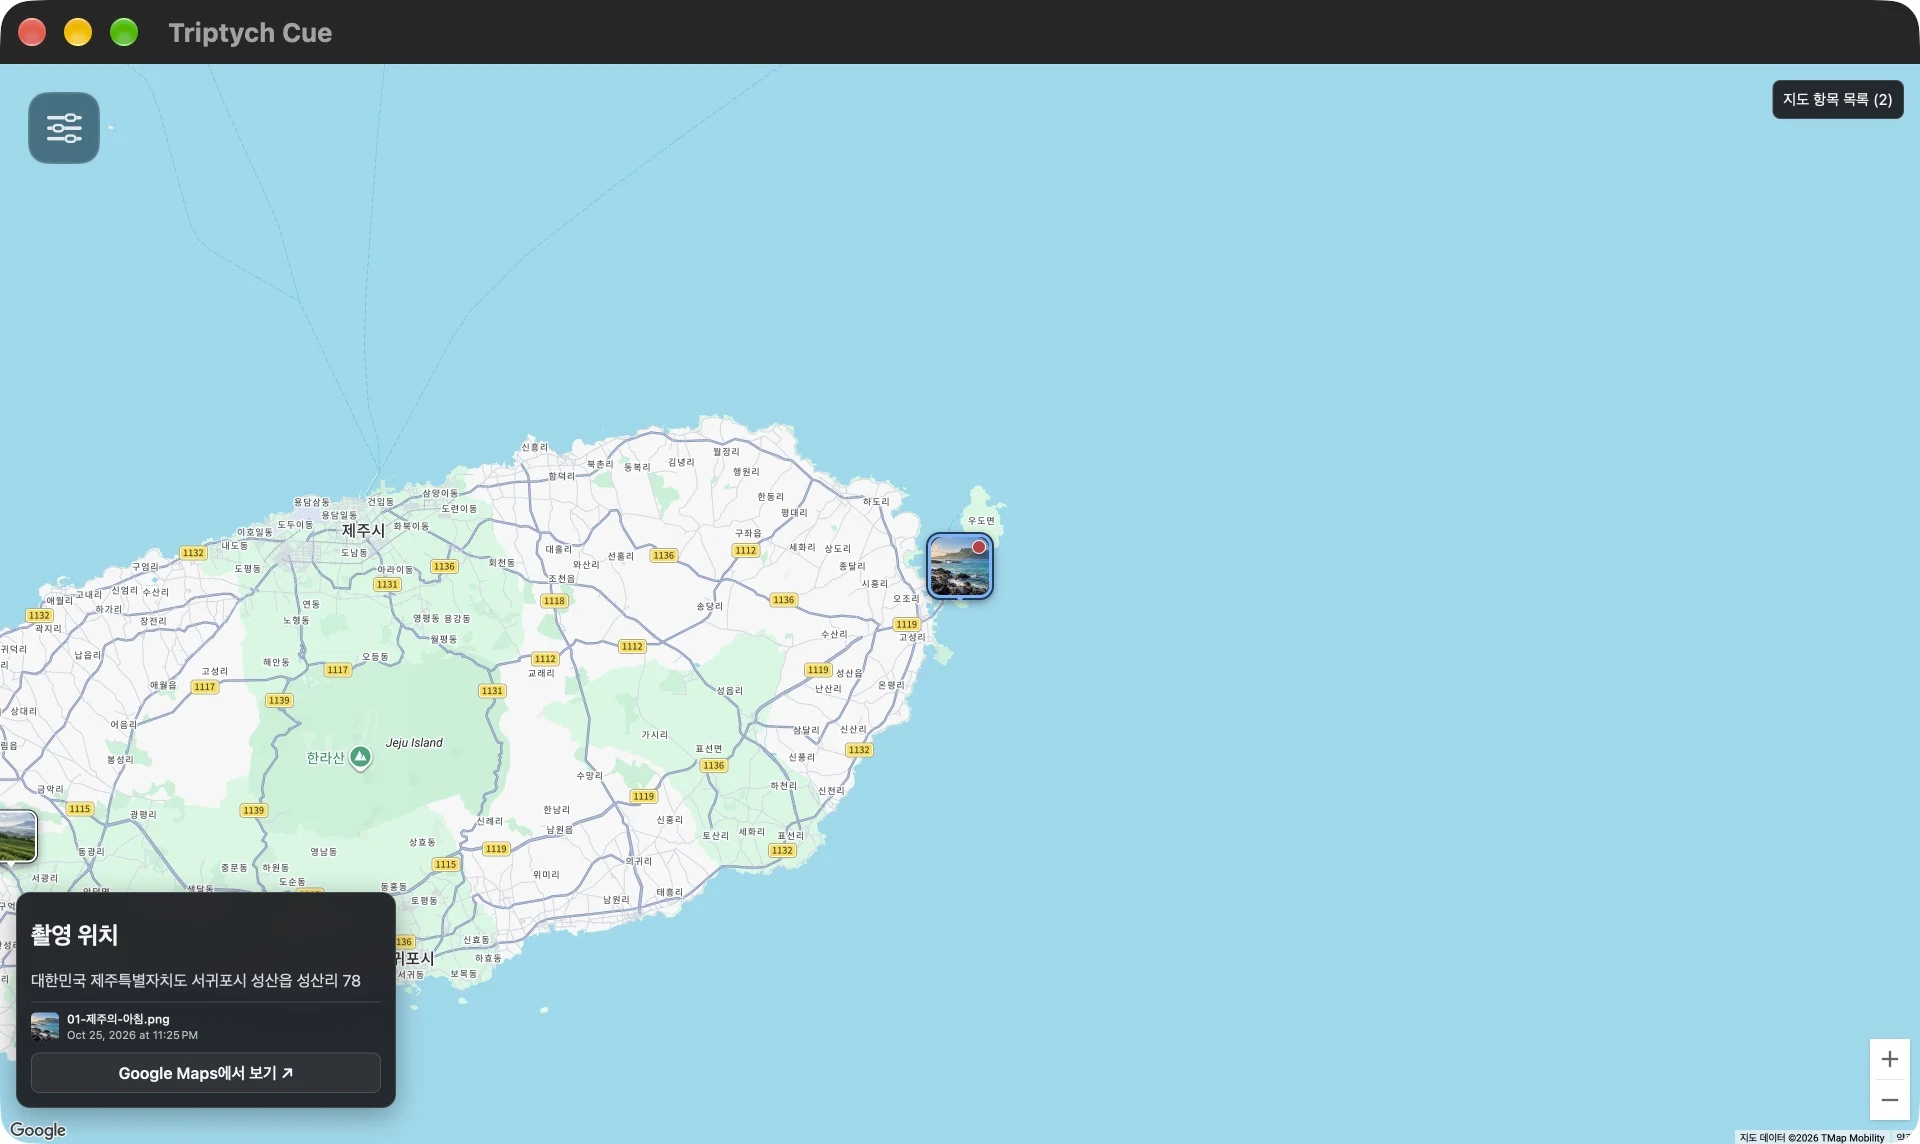
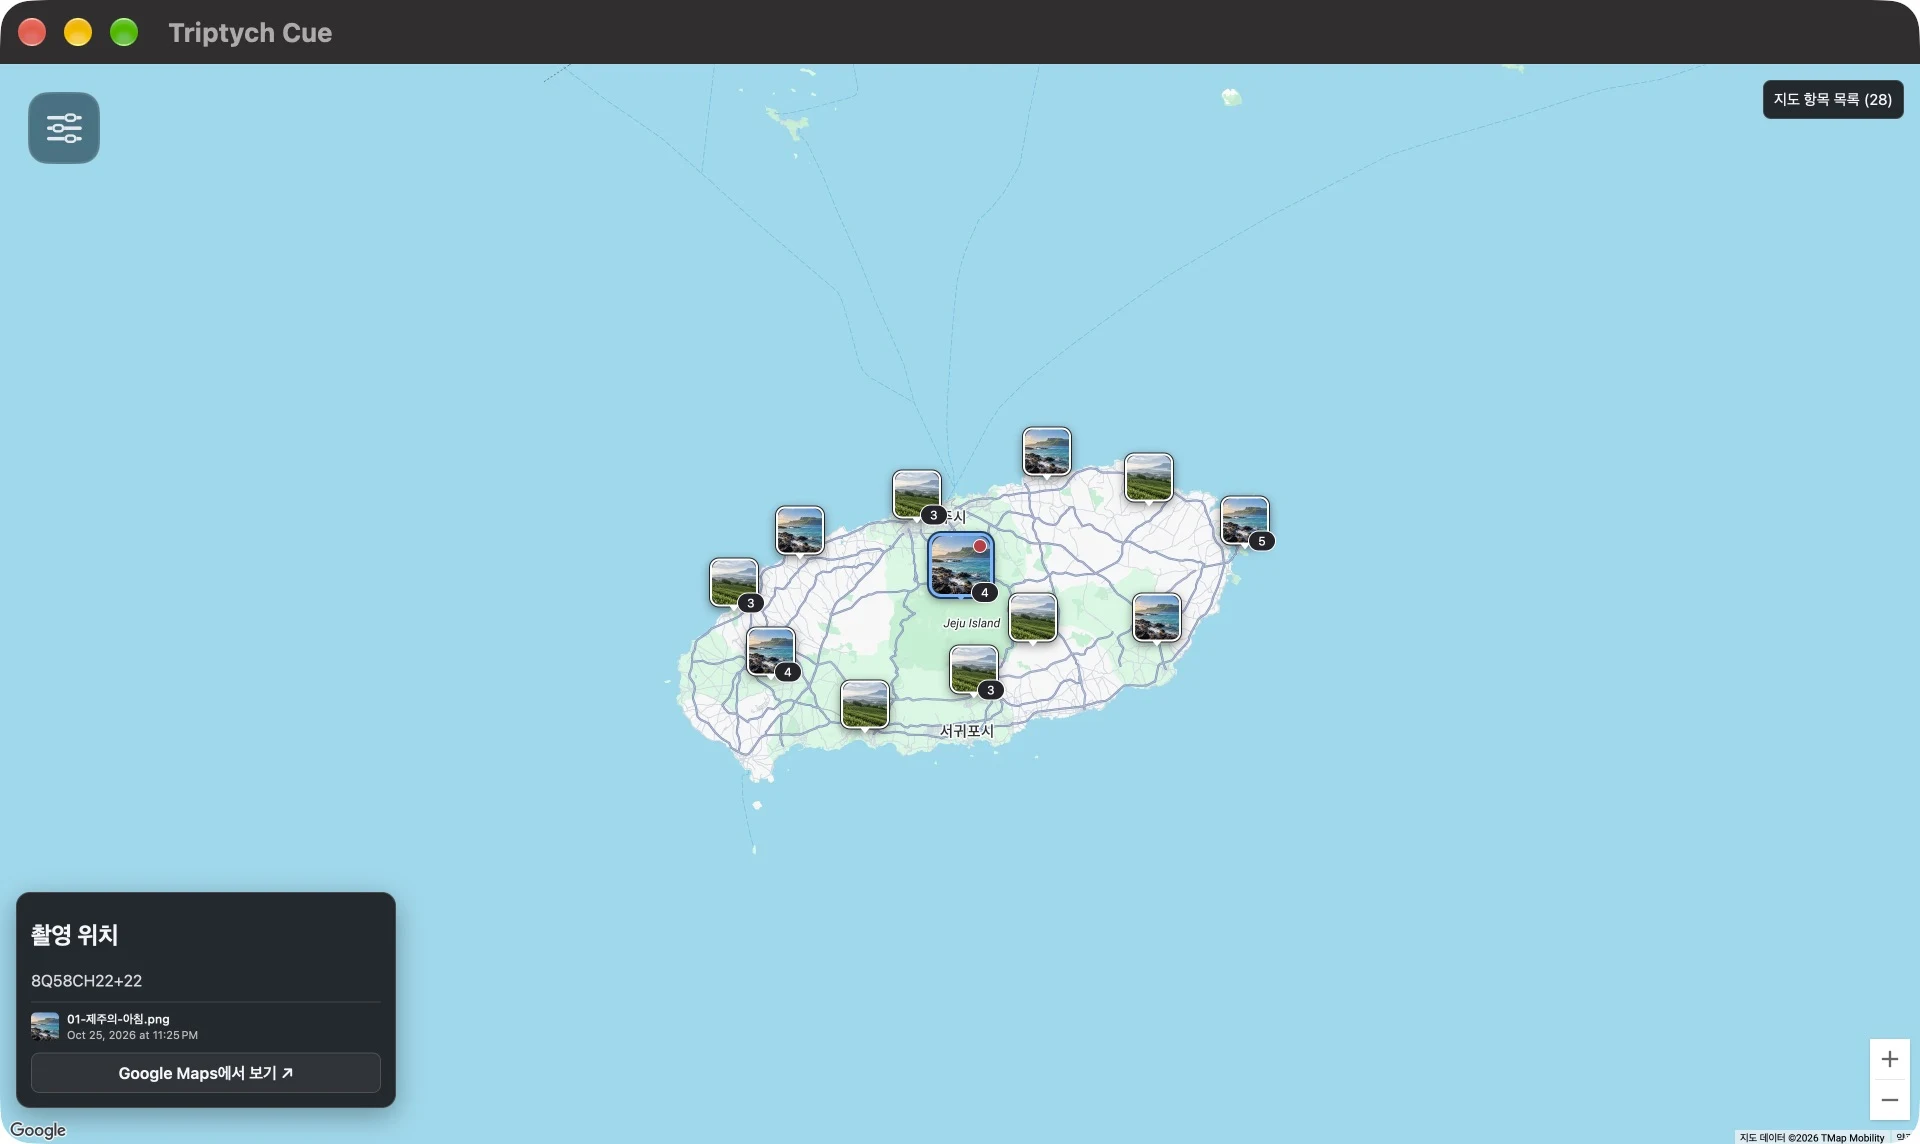
feat(site): showcase map clusters and each presentation tool
OPS-T56–59: 28 demo media across 12 locations; actual summary, annotation and user-drawn screenshots. Desktop and 390px mobile checks; full asset/anchor/secret scan passed.

diff --git a/styles.css b/styles.css
@@ -82,8 +82,13 @@ h2{font-size:clamp(32px,3.4vw,49px);font-weight:620;line-height:1.32;letter-spac
 .feature-copy h3{font-size:clamp(25px,2.4vw,34px);line-height:1.45;letter-spacing:-.045em;font-weight:600}
 .feature-copy>p{font-size:14px;line-height:1.95;color:var(--muted);margin-top:23px;max-width:350px}
 .feature-copy .fine-print{font-size:10px;margin-top:24px;line-height:1.7}
-.feature-map img,.feature-notes img,.rolling-shot img{filter:drop-shadow(0 16px 20px #24251e17)}
-.feature-notes{display:grid;grid-template-columns:1.4fr .8fr;gap:90px;align-items:center;border-top:1px solid var(--line);margin-top:92px;padding-top:92px}
+.feature-map img,.feature-expression img,.rolling-shot img{filter:drop-shadow(0 16px 20px #24251e17)}
+.feature-expression{display:grid;grid-template-columns:1.4fr .8fr;gap:90px;align-items:center;border-top:1px solid var(--line);margin-top:92px;padding-top:92px}
+.feature-expression>*{min-width:0}
+.feature-expression img{aspect-ratio:1920 / 1144;object-fit:contain}
+.feature-expression--reverse{grid-template-columns:.8fr 1.4fr}
+.feature-expression--reverse figure{grid-column:2;grid-row:1}
+.feature-expression--reverse .feature-copy{grid-column:1;grid-row:1}
 .feature-tags{display:flex;flex-wrap:wrap;gap:7px;margin-top:26px}
 .feature-tags span{font-size:10px;border:1px solid var(--line);border-radius:3px;padding:5px 9px;color:var(--muted)}
 .workflow{background:#eaece5}
@@ -113,7 +118,7 @@ kbd{display:inline-flex;align-items:center;justify-content:center;font:500 12px 
 .site-footer p{font-size:11px;color:var(--muted)}
 .footer-meta{color:var(--muted);font-size:9px}
 @media(min-width:1600px){.hero-copy{padding-bottom:70px}.hero-gallery{padding-bottom:135px}.hero-small-shot{bottom:35px}}
-@media(max-width:1100px){.wrap{width:calc(100% - 72px)}.hero-copy{grid-template-columns:1fr .45fr;gap:24px}.hero-aside>p{font-size:14px}.text-link{font-size:11px;gap:10px}.section-space{padding-block:90px}.intro{padding-block:90px;grid-template-columns:.7fr 2fr .3fr;gap:24px}.feature-map{gap:38px;grid-template-columns:1fr 1.35fr}.feature-notes{gap:46px}.mode-caption{grid-template-columns:1fr 1.5fr}.mode-caption .caption-index{display:none}.keyboard{gap:60px}.site-header nav{margin-right:16px;gap:25px}.hero-small-shot figcaption span:last-child{font-size:10px}}
-@media(max-width:760px){.wrap{width:calc(100% - 40px)}.site-header{min-height:88px;flex-wrap:wrap;gap:12px;padding-block:21px}.brand{font-size:23px}.brand-mark{width:25px;height:24px}.site-header nav{gap:19px;margin:0;font-size:12px}.header-cta{display:none}.hero{padding-top:32px}.hero-meta .eyebrow{font-size:8px;letter-spacing:.11em}.version{font-size:9px}.version span{margin-inline:5px}.hero-copy{grid-template-columns:1fr;padding-block:30px 38px;gap:26px}h1{font-size:clamp(43px,9.1vw,68px);letter-spacing:-.065em}.hero-aside{display:flex;align-items:end;justify-content:space-between;gap:20px}.hero-aside>p{font-size:13px;line-height:1.8}.text-link{margin:0;font-size:10px;max-width:140px;line-height:1.7}.hero-gallery{padding-bottom:96px}.hero-main-shot{width:94%}.hero-main-shot figcaption{padding-left:44%;font-size:9px}.hero-main-shot figcaption .caption-index{display:none}.hero-small-shot{width:46%;bottom:22px}.hero-small-shot figcaption{margin-top:10px;font-size:9px}.hero-small-shot figcaption span:last-child{font-size:9px}.hero-side-note{font-size:7px;letter-spacing:.12em}.hero-foot{font-size:9px;padding-block:17px;gap:16px}.hero-foot .blue{margin-left:9px}.intro{grid-template-columns:1fr;padding-block:68px;gap:26px}.intro-symbol{display:none}.section-label{padding:0}.intro h2{font-size:29px}.body-copy{font-size:13px;margin-top:22px}.section-space{padding-block:70px}.section-heading{align-items:start;gap:25px;margin-bottom:34px;flex-direction:column}h2{font-size:33px}.section-heading .eyebrow,.keyboard .eyebrow{font-size:9px;margin-bottom:19px}.section-description{font-size:13px}.showcase-toolbar{gap:12px;margin-bottom:18px}.showcase-toolbar .small-label{font-size:8px;letter-spacing:.09em}.mode-tabs{gap:2px;padding:4px}.mode-tabs button{padding:9px 14px;font-size:12px}.mode-number{display:none}.showcase-image{padding:10px 5px 16px;aspect-ratio:1.65}.mode-caption{grid-template-columns:1fr;gap:9px;padding-block:22px}.mode-caption h3{font-size:19px}.mode-caption p{font-size:12px}.image-note{font-size:10px;line-height:1.8}.editorial-number{display:none}.feature-map,.feature-notes{grid-template-columns:1fr;gap:30px;padding-top:14px}.feature-copy h3{font-size:27px}.feature-copy>p{max-width:100%;font-size:13px;margin-top:18px}.feature-copy .feature-index{margin-bottom:17px}.feature-copy .fine-print{font-size:10px;margin-top:16px}.feature-notes{margin-top:54px;padding-top:46px}.feature-notes .feature-copy{grid-row:1}.feature-tags{margin-top:18px}figcaption{font-size:9px;gap:12px;margin-top:12px}.caption-index{font-size:8px}.rolling-shot{width:100%}.workflow-steps{gap:22px;margin-top:36px}.workflow-steps h3{font-size:16px;margin-top:12px}.workflow-steps p{font-size:11px;margin-top:9px}.keyboard{grid-template-columns:1fr;gap:36px}.shortcut-list>div{padding-block:14px;min-height:65px}.closing{padding-block:65px}.closing .eyebrow{font-size:9px}.closing h2{font-size:clamp(37px,8vw,56px);margin-top:25px}.button{margin-top:28px}.release-note{font-size:10px}.site-footer{flex-wrap:wrap;min-height:130px;gap:18px}.site-footer p{font-size:10px}.footer-meta{width:100%;font-size:8px}}
+@media(max-width:1100px){.wrap{width:calc(100% - 72px)}.hero-copy{grid-template-columns:1fr .45fr;gap:24px}.hero-aside>p{font-size:14px}.text-link{font-size:11px;gap:10px}.section-space{padding-block:90px}.intro{padding-block:90px;grid-template-columns:.7fr 2fr .3fr;gap:24px}.feature-map{gap:38px;grid-template-columns:1fr 1.35fr}.feature-expression{gap:46px}.mode-caption{grid-template-columns:1fr 1.5fr}.mode-caption .caption-index{display:none}.keyboard{gap:60px}.site-header nav{margin-right:16px;gap:25px}.hero-small-shot figcaption span:last-child{font-size:10px}}
+@media(max-width:760px){.wrap{width:calc(100% - 40px)}.site-header{min-height:88px;flex-wrap:wrap;gap:12px;padding-block:21px}.brand{font-size:23px}.brand-mark{width:25px;height:24px}.site-header nav{gap:19px;margin:0;font-size:12px}.header-cta{display:none}.hero{padding-top:32px}.hero-meta .eyebrow{font-size:8px;letter-spacing:.11em}.version{font-size:9px}.version span{margin-inline:5px}.hero-copy{grid-template-columns:1fr;padding-block:30px 38px;gap:26px}h1{font-size:clamp(43px,9.1vw,68px);letter-spacing:-.065em}.hero-aside{display:flex;align-items:end;justify-content:space-between;gap:20px}.hero-aside>p{font-size:13px;line-height:1.8}.text-link{margin:0;font-size:10px;max-width:140px;line-height:1.7}.hero-gallery{padding-bottom:96px}.hero-main-shot{width:94%}.hero-main-shot figcaption{padding-left:44%;font-size:9px}.hero-main-shot figcaption .caption-index{display:none}.hero-small-shot{width:46%;bottom:22px}.hero-small-shot figcaption{margin-top:10px;font-size:9px}.hero-small-shot figcaption span:last-child{font-size:9px}.hero-side-note{font-size:7px;letter-spacing:.12em}.hero-foot{font-size:9px;padding-block:17px;gap:16px}.hero-foot .blue{margin-left:9px}.intro{grid-template-columns:1fr;padding-block:68px;gap:26px}.intro-symbol{display:none}.section-label{padding:0}.intro h2{font-size:29px}.body-copy{font-size:13px;margin-top:22px}.section-space{padding-block:70px}.section-heading{align-items:start;gap:25px;margin-bottom:34px;flex-direction:column}h2{font-size:33px}.section-heading .eyebrow,.keyboard .eyebrow{font-size:9px;margin-bottom:19px}.section-description{font-size:13px}.showcase-toolbar{gap:12px;margin-bottom:18px}.showcase-toolbar .small-label{font-size:8px;letter-spacing:.09em}.mode-tabs{gap:2px;padding:4px}.mode-tabs button{padding:9px 14px;font-size:12px}.mode-number{display:none}.showcase-image{padding:10px 5px 16px;aspect-ratio:1.65}.mode-caption{grid-template-columns:1fr;gap:9px;padding-block:22px}.mode-caption h3{font-size:19px}.mode-caption p{font-size:12px}.image-note{font-size:10px;line-height:1.8}.editorial-number{display:none}.feature-map,.feature-expression{grid-template-columns:1fr;gap:30px;padding-top:14px}.feature-copy h3{font-size:27px}.feature-copy>p{max-width:100%;font-size:13px;margin-top:18px}.feature-copy .feature-index{margin-bottom:17px}.feature-copy .fine-print{font-size:10px;margin-top:16px}.feature-expression{margin-top:54px;padding-top:46px}.feature-expression .feature-copy{grid-row:1}.feature-expression figure{grid-column:1;grid-row:2}.feature-expression .feature-copy{grid-column:1}.feature-tags{margin-top:18px}figcaption{font-size:9px;gap:12px;margin-top:12px}.caption-index{font-size:8px}.rolling-shot{width:100%}.workflow-steps{gap:22px;margin-top:36px}.workflow-steps h3{font-size:16px;margin-top:12px}.workflow-steps p{font-size:11px;margin-top:9px}.keyboard{grid-template-columns:1fr;gap:36px}.shortcut-list>div{padding-block:14px;min-height:65px}.closing{padding-block:65px}.closing .eyebrow{font-size:9px}.closing h2{font-size:clamp(37px,8vw,56px);margin-top:25px}.button{margin-top:28px}.release-note{font-size:10px}.site-footer{flex-wrap:wrap;min-height:130px;gap:18px}.site-footer p{font-size:10px}.footer-meta{width:100%;font-size:8px}}
 @media(max-width:420px){.wrap{width:calc(100% - 32px)}.site-header nav{gap:14px}.hero-aside{display:block}.text-link{margin-top:18px;max-width:none}.hero-small-shot{width:49%}.hero-gallery{padding-bottom:88px}.hero-main-shot figcaption{padding-left:48%}.hero-foot>span:last-child{max-width:180px;text-align:right}.showcase-toolbar{align-items:start;flex-direction:column}.mode-tabs{width:100%}.mode-tabs button{flex:1}.workflow-steps{grid-template-columns:1fr;gap:25px}.workflow-steps li{display:grid;grid-template-columns:30px 1fr;gap:6px 16px;padding-top:16px}.step-number{padding-top:4px;grid-row:span 2}.workflow-steps h3{margin:0;font-size:18px}.workflow-steps p{margin:0;max-width:none;font-size:12px}.hero-meta .eyebrow{font-size:7px}.status-dot{width:5px;height:5px}}
 @media(prefers-reduced-motion:reduce){html{scroll-behavior:auto}*,*::before,*::after{transition:none!important;animation:none!important}.button:hover{transform:none}}

diff --git a/index.html b/index.html
@@ -78,7 +78,7 @@
           </section>
           <section id="panel-map" class="mode-panel" aria-labelledby="tab-map">
             <div class="showcase-image"><img src="assets/cue-map.webp" width="1920" height="1144" alt="지도 모드: Google 지도와 미디어 위치를 중심으로 여행의 장소를 탐색하는 Cue 화면." loading="lazy" decoding="async"></div>
-            <div class="mode-caption"><h3>기억을, 지도 위에.</h3><p>장소 사이의 관계를 살펴보며 사진 속 이야기를 더 넓게 이어갑니다.</p><span class="caption-index">MAP / 03</span></div>
+            <div class="mode-caption"><h3>기억을, 지도 위에.</h3><p>가까운 사진은 군집으로 모아 보고, 확대하며 개별 위치를 살펴봅니다.</p><span class="caption-index">MAP / 03</span></div>
           </section>
         </div>
         <p class="image-note">실제 앱 화면입니다. 여행 사진은 AI 생성 데모이며, 지도 위치는 기능 설명을 위한 예시입니다.</p>
@@ -88,12 +88,20 @@
     <section class="features wrap section-space" id="features" aria-labelledby="features-title">
       <div class="section-heading"><div><p class="eyebrow">02 — MORE THAN A SLIDESHOW</p><h2 id="features-title">보여줄 장면에,<br>전하고 싶은 맥락을.</h2></div><span class="editorial-number" aria-hidden="true">+ context</span></div>
       <article class="feature-map">
-        <div class="feature-copy"><span class="feature-index">01 / PLACE</span><h3>“여기가 어디냐면.”<br>지도에서 시작되는 대화.</h3><p>사진의 위치와 직접 지정한 장소를 지도에 연결하세요. 여행의 한 장면이 어느 곳에 놓여 있는지, 주변에는 무엇이 있는지 함께 살펴볼 수 있습니다.</p><p class="fine-print">지도는 Google Maps를 사용하며 인터넷 연결이 필요합니다.</p></div>
+        <div class="feature-copy"><span class="feature-index">01 / PLACE</span><h3>“여기가 어디냐면.”<br>지도에서 시작되는 대화.</h3><p>사진의 위치와 직접 지정한 장소를 지도에 연결하세요. 여러 장소에 놓인 사진과 영상을 따라 여행의 흐름을 함께 살펴볼 수 있습니다.</p><p>가까이 모인 사진은 군집으로 묶어 보여줍니다. 확대하며 개별 위치를 살펴보고, 같은 위치에 겹친 사진은 군집 목록에서 확인하세요.</p><p class="fine-print">지도는 Google Maps를 사용하며 인터넷 연결이 필요합니다.</p></div>
         <figure class="map-shot"><img src="assets/cue-map.webp" width="1920" height="1144" alt="장소와 미디어를 함께 살펴보는 Triptych 지도 모드 전체 화면. Google 지도 출처 표기를 포함합니다." loading="lazy" decoding="async"><figcaption><span class="caption-index">A SENSE OF PLACE</span><span>사진 너머의 풍경까지.</span></figcaption></figure>
       </article>
-      <article class="feature-notes">
-        <figure><img src="assets/cue-notes.webp" width="1920" height="1144" alt="Cue 장면 위에 설명 박스를 표시한 실제 앱 화면." loading="lazy" decoding="async"><figcaption><span class="caption-index">WORDS ON THE MOMENT</span><span>필요한 말만, 필요한 순간에.</span></figcaption></figure>
-        <div class="feature-copy"><span class="feature-index">02 / EXPRESSION</span><h3>한 줄을 더하고.<br>한 곳을 짚어주고.</h3><p>요약 메모로 장면의 중심을 잡고, 설명 박스로 세부 내용을 덧붙이세요. 말로 설명하기 어려운 부분은 화면 위에 직접 그리며 전할 수 있습니다.</p><div class="feature-tags"><span>요약 메모</span><span>설명 박스</span><span>화면 그리기</span></div></div>
+      <article class="feature-expression" aria-labelledby="summary-title">
+        <figure><img src="assets/cue-summary.webp" width="1920" height="1144" alt="Cue 장면을 어둡게 하고 화면 중앙에 요약 메모를 표시한 실제 앱 화면." loading="lazy" decoding="async"><figcaption><span class="caption-index">SUMMARY / THE MAIN THOUGHT</span><span>장면의 중심에 놓는 한마디.</span></figcaption></figure>
+        <div class="feature-copy"><span class="feature-index">02 / SUMMARY</span><h3 id="summary-title">요약 메모.<br>꼭 전하고 싶은 한마디.</h3><p>장면에 담긴 생각을 화면 중앙에 띄워보세요. 사진 위를 차분하게 어둡히고 글에 시선을 모아, 이야기의 핵심을 전합니다.</p><div class="feature-tags"><span>M · 요약 메모 표시</span></div></div>
+      </article>
+      <article class="feature-expression feature-expression--reverse" aria-labelledby="annotations-title">
+        <figure><img src="assets/cue-notes.webp" width="1920" height="1144" alt="Cue 장면 위에 설명 박스를 배치해 세부 내용을 덧붙인 실제 앱 화면." loading="lazy" decoding="async"><figcaption><span class="caption-index">ANNOTATIONS / THE DETAILS</span><span>설명이 필요한 곳에, 필요한 말.</span></figcaption></figure>
+        <div class="feature-copy"><span class="feature-index">03 / ANNOTATIONS</span><h3 id="annotations-title">설명 박스.<br>장면 곁에 더하는 맥락.</h3><p>이름이나 짧은 설명을 박스에 담아 원하는 곳에 놓으세요. 위치와 크기를 조절하며 사진 속 세부 내용을 장면과 함께 보여줄 수 있습니다.</p><div class="feature-tags"><span>B · 설명 박스 표시</span></div></div>
+      </article>
+      <article class="feature-expression" aria-labelledby="drawing-title">
+        <figure><img src="assets/cue-drawing.webp" width="1920" height="1144" alt="Cue 장면 위에 직접 선을 그려 설명할 부분을 강조한 실제 앱 화면." loading="lazy" decoding="async"><figcaption><span class="caption-index">DRAWING / A POINT OF FOCUS</span><span>말의 흐름을 따라, 선 하나.</span></figcaption></figure>
+        <div class="feature-copy"><span class="feature-index">04 / DRAWING</span><h3 id="drawing-title">화면 그리기.<br>지금 보는 곳을 함께.</h3><p>말로만 설명하기 어려운 부분은 화면 위에 직접 그리며 짚어주세요. 이야기를 이어가는 순간에, 함께 볼 지점을 또렷하게 전합니다.</p><div class="feature-tags"><span>D · 화면 그리기</span></div></div>
       </article>
     </section>
 

diff --git a/README.md b/README.md
@@ -15,3 +15,5 @@ python3 -m http.server 8767 --bind 127.0.0.1
 ## 이미지
 
 Triptych 1.1.1 (4)의 실제 화면을 2026-10-25 촬영했습니다. 여행 사진은 이 소개를 위해 AI로 생성한 데모 이미지이며, 좌표는 기능 설명을 위한 예시입니다. 개인 미디어는 사용하지 않았습니다. 지도 출처 표기는 캡처에 유지하며 Google 및 지도 데이터 제공자의 권리는 각 제공자에게 있습니다.
+
+2026-10-26: 지도 데모를28개 미디어·12곳 예시 위치로 확장했습니다. AI 사진2종을 반복 사용하여 군집과 개별 마커를 보여줍니다. 요약 메모·설명 박스·화면 그리기를 각각 독립 화면으로 소개합니다.
